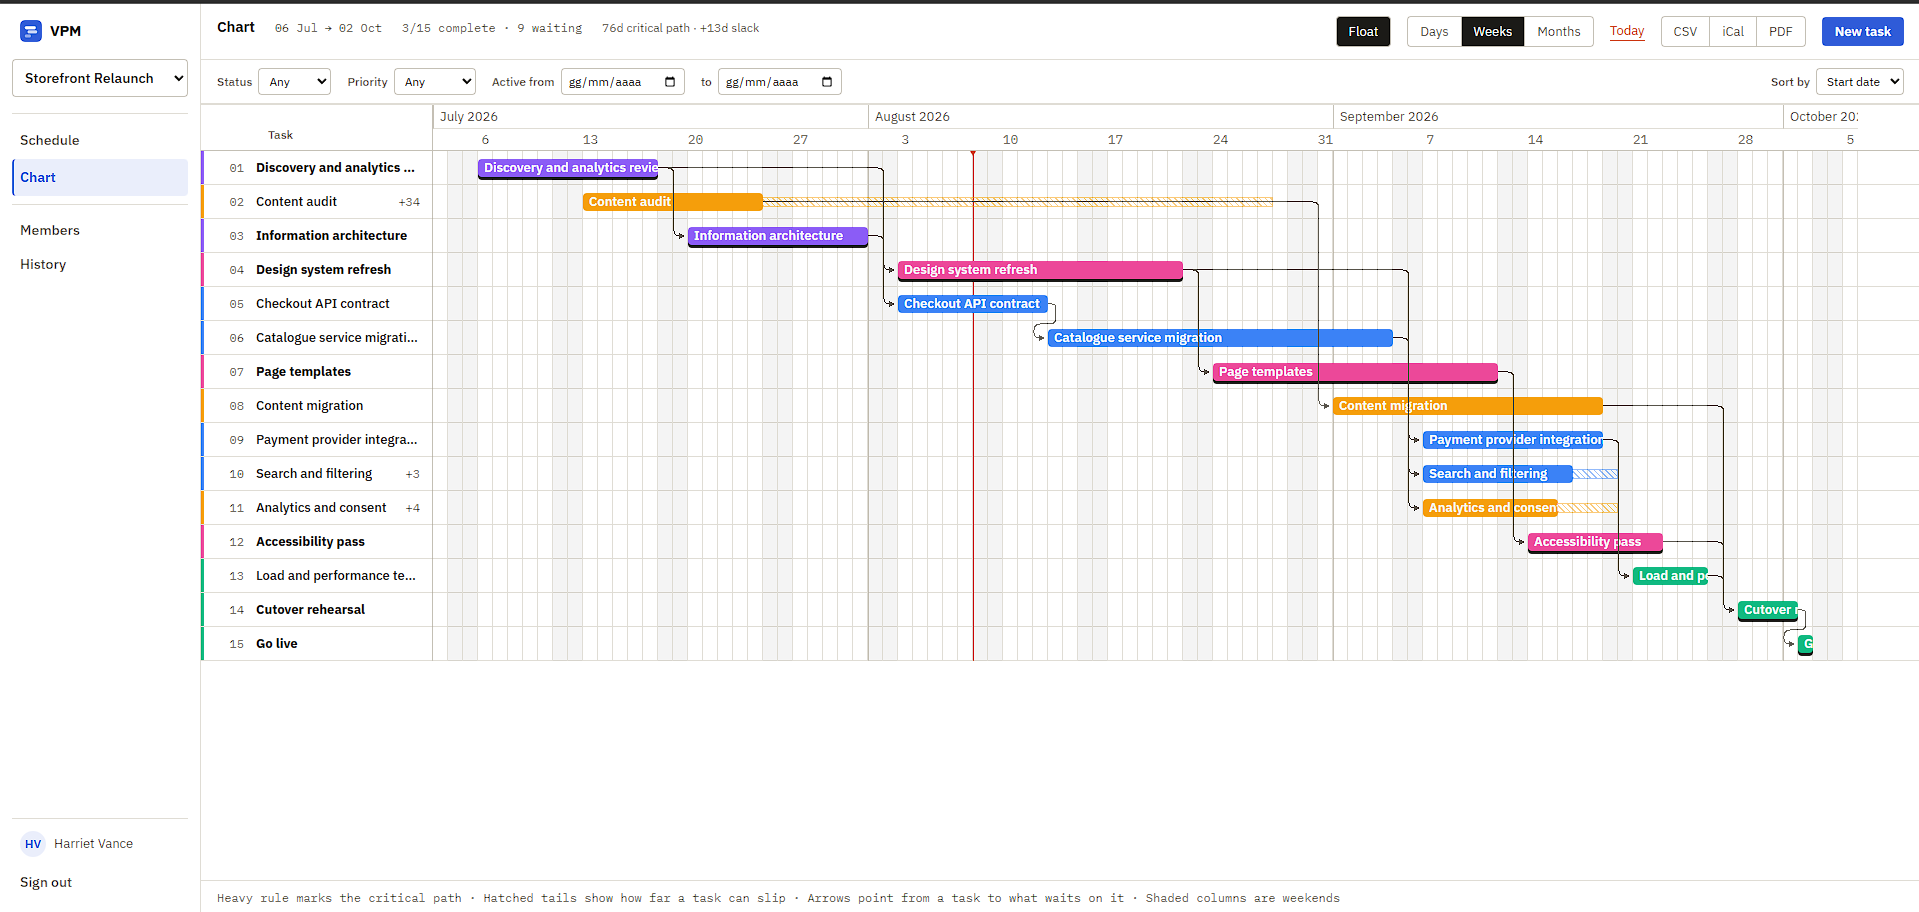
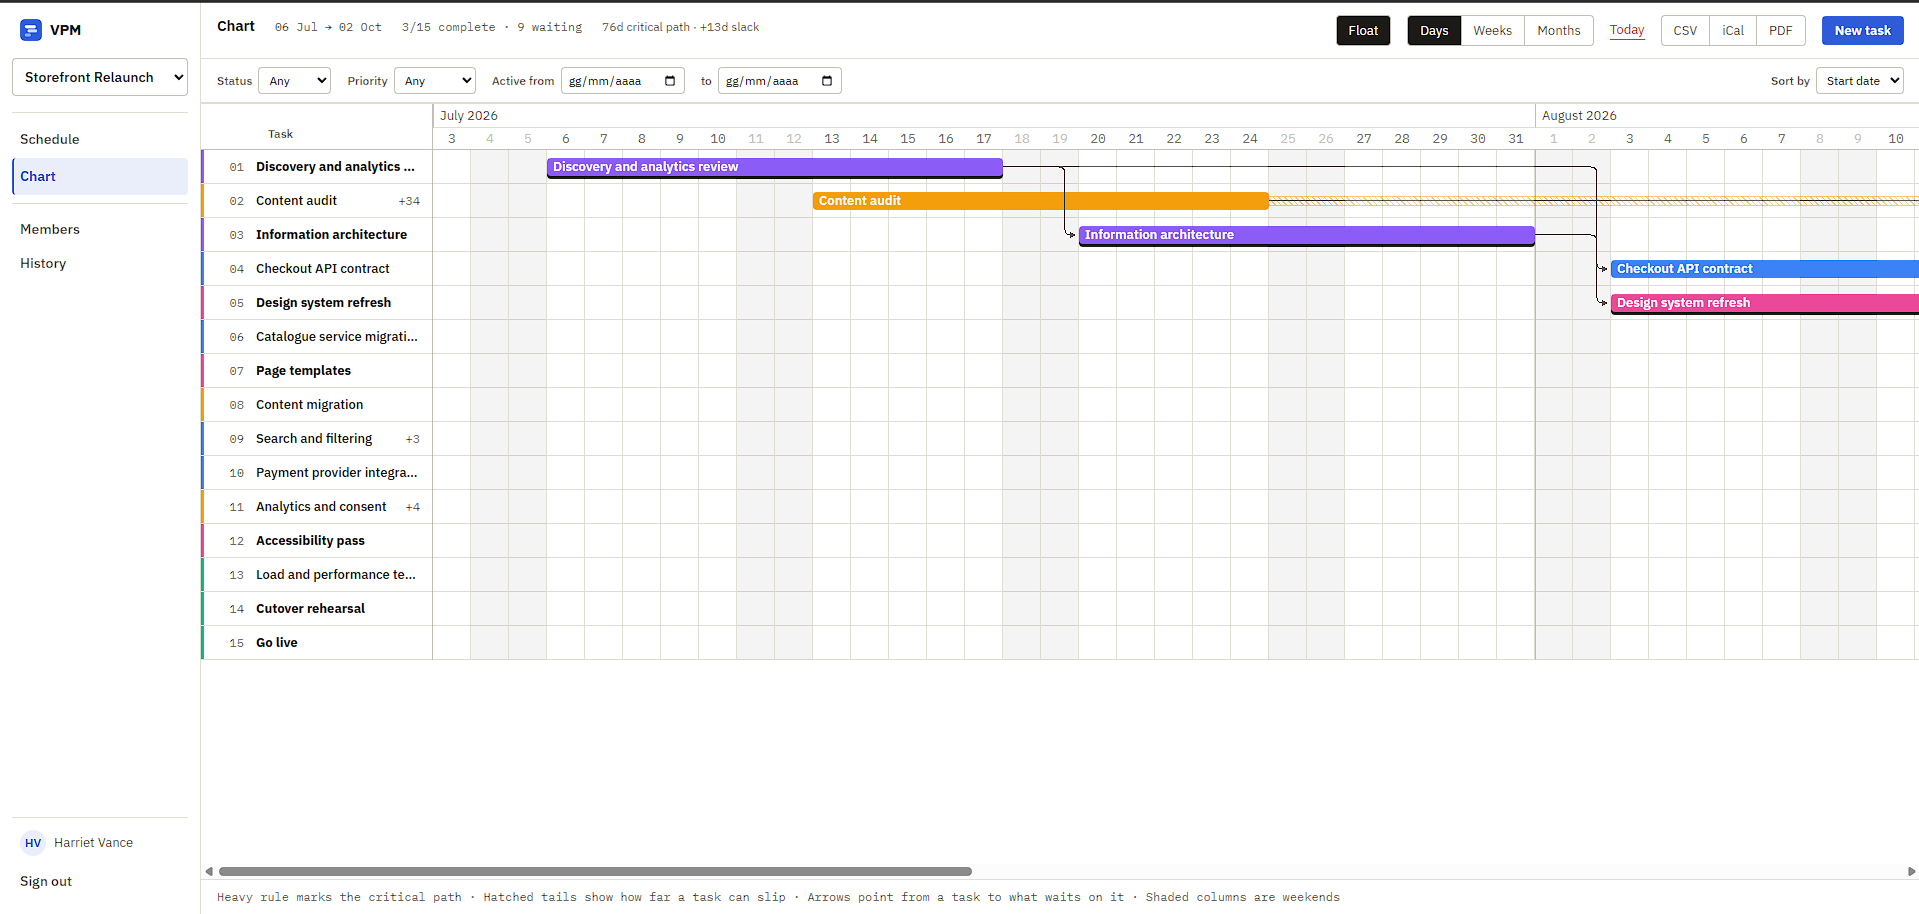
put the live demo at the top, and correct what the seed clears

diff --git a/README.md b/README.md
@@ -8,6 +8,11 @@ slips by a day, moves the finish date by a day.
 Angular 21 in front, Spring Boot 4.1 behind, Keycloak for identity,
 PostgreSQL underneath, and one `docker compose up` to run all of it.
 
+**[Try it](https://vpm-demo.duckdns.org)**, signed in as `harriet` with the
+password `demo`. That account owns the plan below and can change all of it;
+`tom`, same password, sees the same plan read only. Everything is put back
+every night, so nothing you do to it lasts.
+
 ![The chart: bars, dependency arrows, hatched float tails and today's line, zoomed to single days over the first five weeks of the plan](docs/screenshots/chart.png)
 
 ---
@@ -165,10 +170,16 @@ They all see the same plan. What differs is what the interface lets them
 do with it: sign in as Tom for the read-only view, as Harriet for the
 members panel the editors are not offered.
 
-Run it twice and the second run replaces the first. It writes only its own
-project and its own four `@northwind.example` accounts, so a database
-already in use keeps everything else. Local development only, and
-[SECURITY.md](SECURITY.md) says why.
+Run it twice and the second run replaces the first. It clears every project
+the four `@northwind.example` accounts belong to, not only the one it wrote,
+and any project left with no members at all. On a database of your own,
+anything those four are not a member of is untouched.
+
+Clearing more than it wrote is the point on the public instance, where the
+same script runs every night: a visitor signed in as Harriet is free to make
+projects of their own, and by morning they are gone.
+[SECURITY.md](SECURITY.md) sets out what a password printed in a README does
+and does not put at risk.
 
 ### Developing
 
@@ -194,8 +205,15 @@ anywhere](#one-image-three-addresses-one-file).
 front with a certificate it renews itself, Keycloak on `start` rather than
 `start-dev`, nothing published but 80 and 443, every secret required with
 no default, and registration closed because the demo accounts are the way
-in. [docs/deploying.md](docs/deploying.md) is the walkthrough, written for
-an Oracle Cloud Always Free instance because four services and two
+in. Caddy names the realm it serves, `/realms/vpm/*`, rather than globbing
+`/realms/*`: that keeps the master realm's token endpoint off the public
+internet alongside the administration console, which is where an
+administrator password would otherwise be checked by anyone who asked.
+
+[vpm-demo.duckdns.org](https://vpm-demo.duckdns.org) is that overlay
+running, with a systemd timer putting the plan back at half past four each
+morning. [docs/deploying.md](docs/deploying.md) is the walkthrough, written
+for an Oracle Cloud Always Free instance because four services and two
 databases want more memory than most free tiers give.
 
 ---
